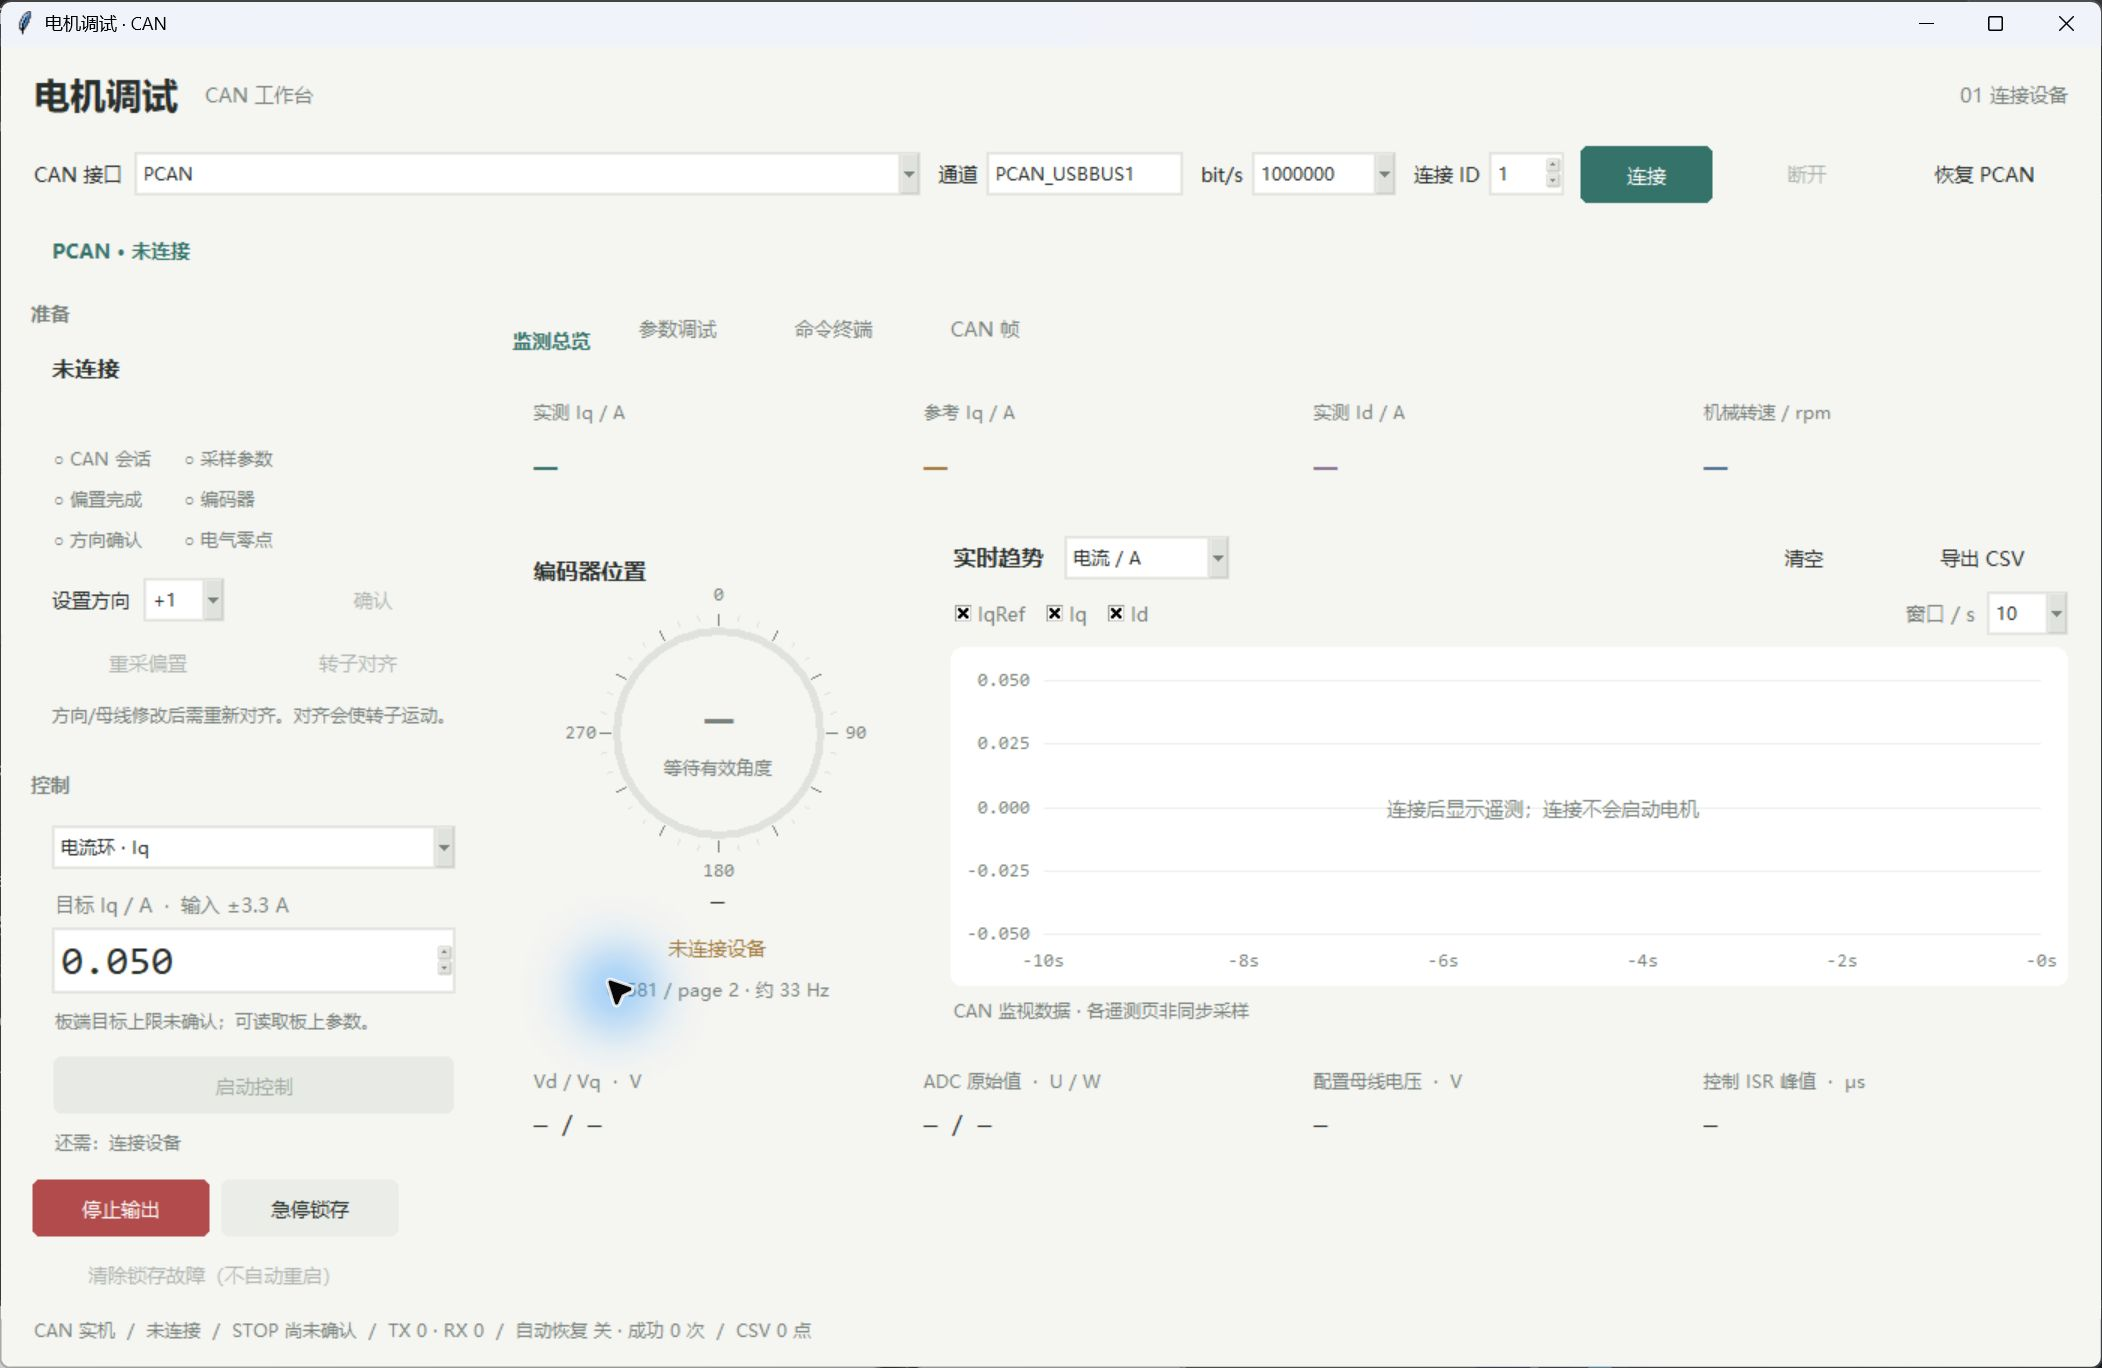
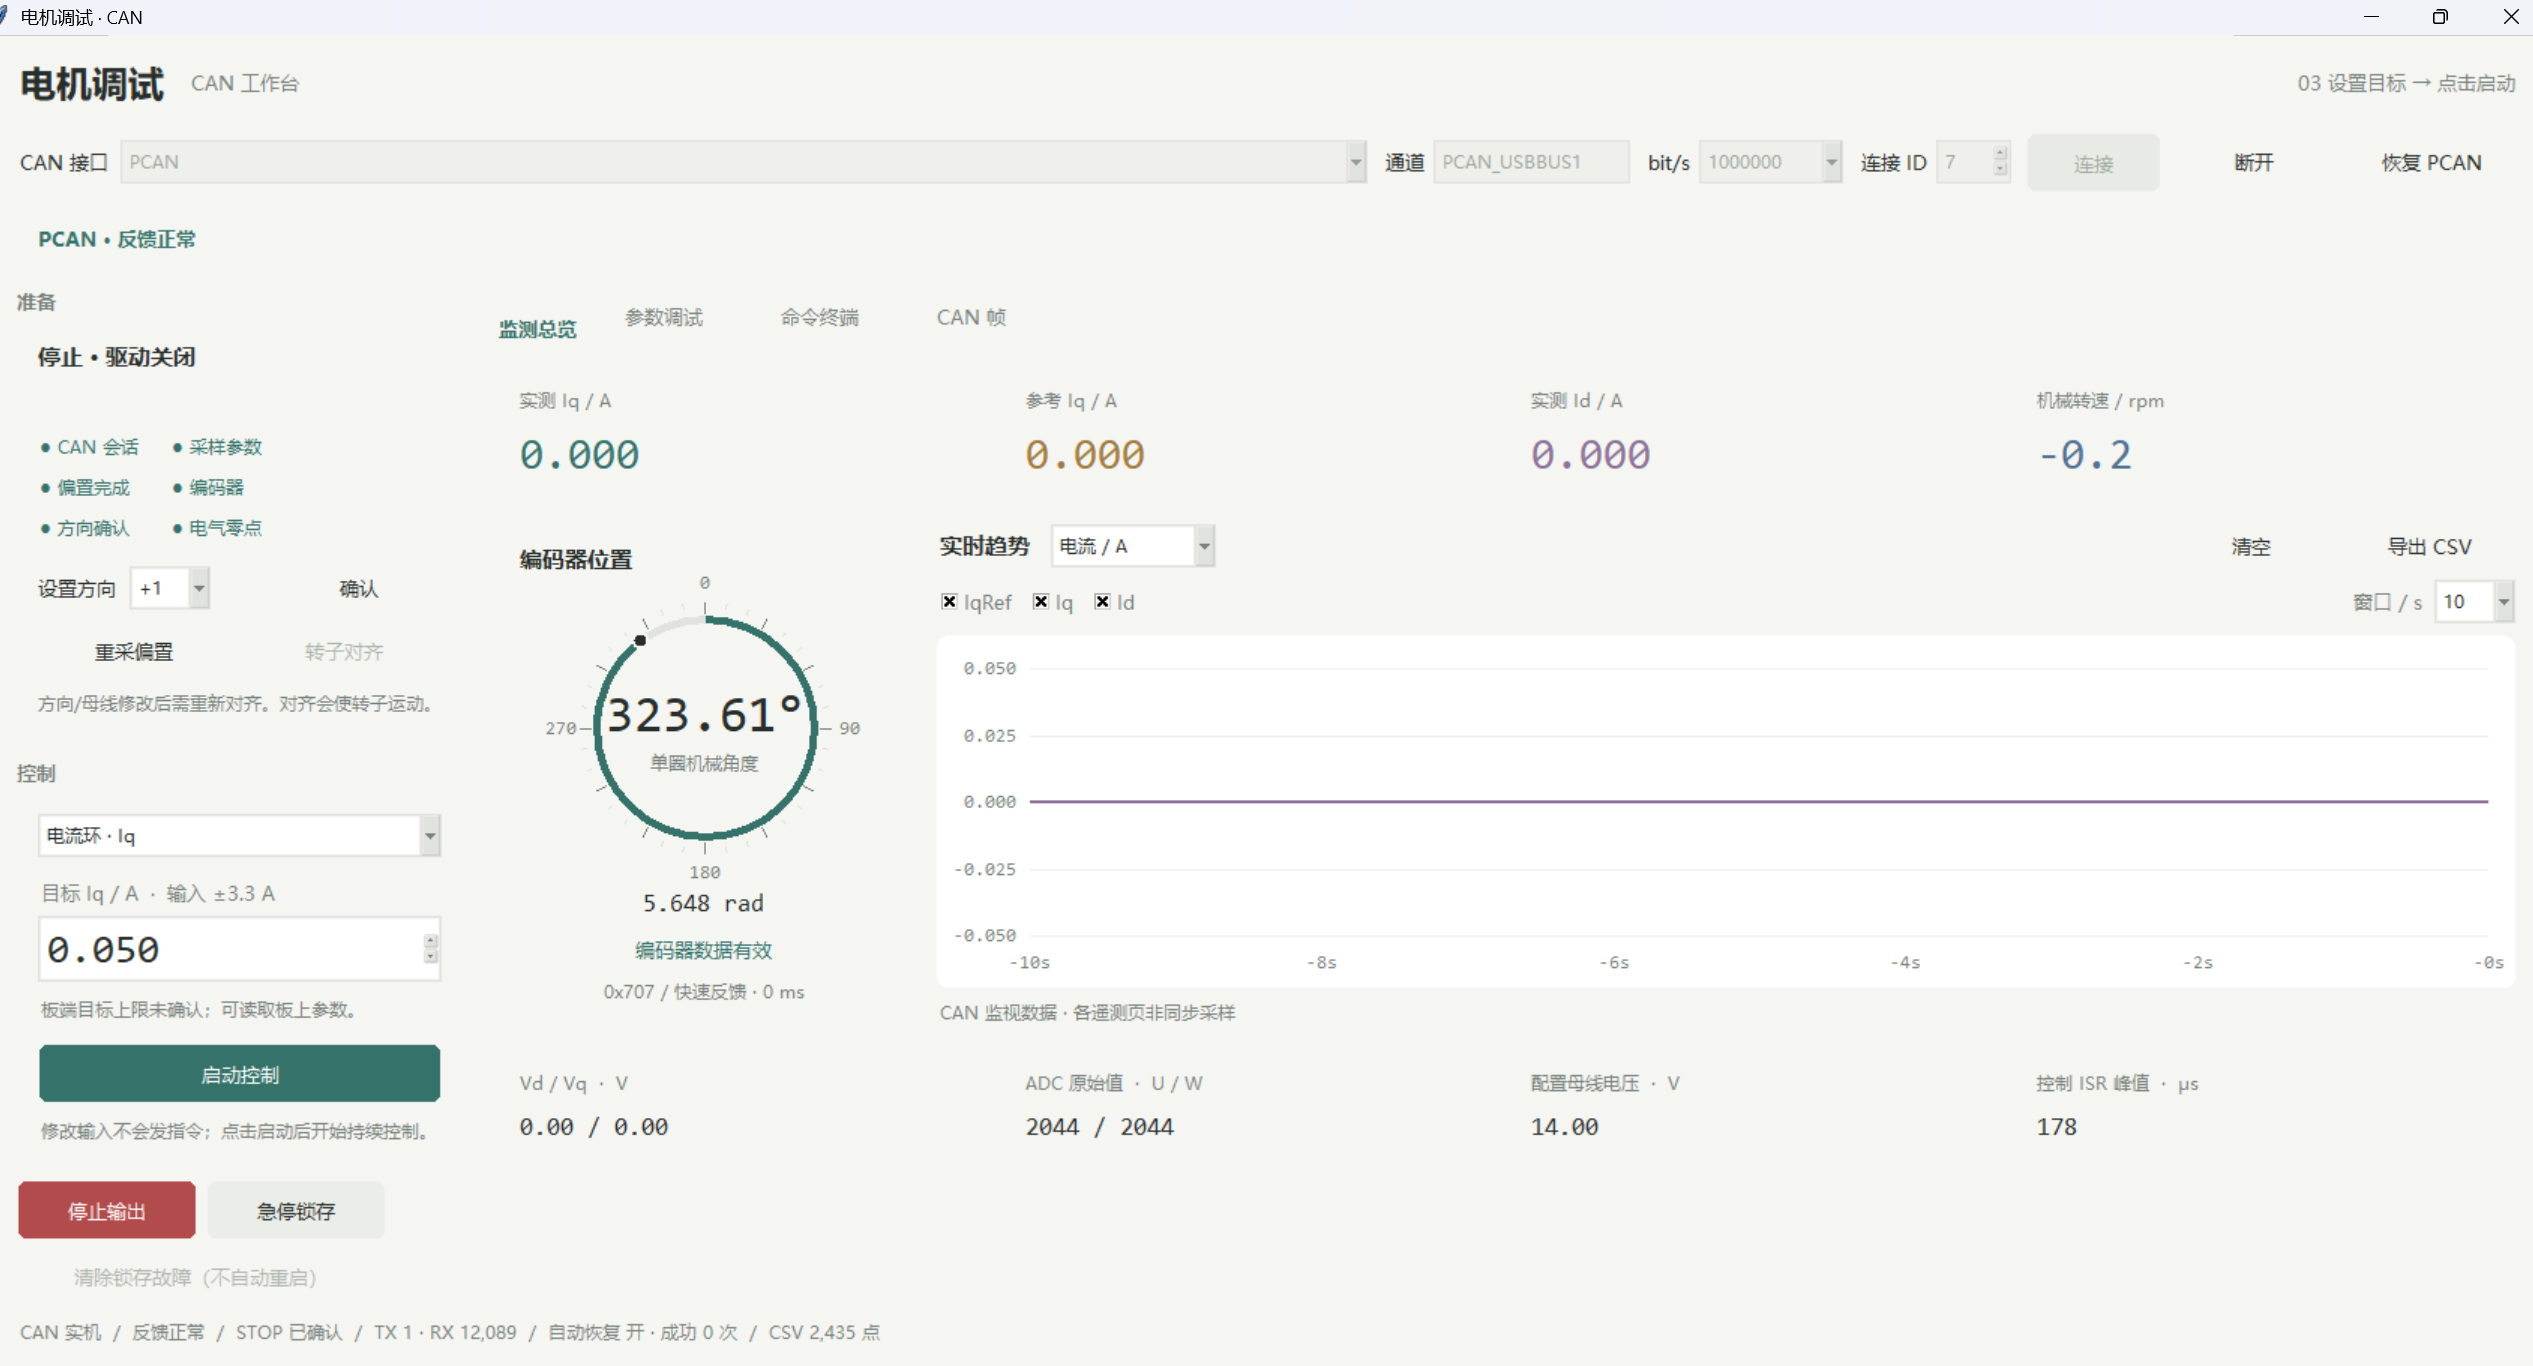
Use supplied connected node 7 desktop screenshot

diff --git a/README.md b/README.md
@@ -53,7 +53,7 @@
 
 ## 中文上位机界面
 
-最新版 Windows 程序的真实窗口截图，展示连接设置、控制区、机械角度表盘、趋势曲线与参数编辑器。截图时保持未连接，参数编辑值不代表实板读回结果。
+Windows 上位机的真实窗口截图，展示连接设置、控制区、机械角度表盘、趋势曲线与参数编辑器。总览图已连接 PCAN / 节点 7，反馈正常，截图时处于 STOP、驱动关闭；下方参数页为未连接时的编辑器展示，编辑值不代表实板读回结果。
 
 ![CAN 上位机监测总览](docs/images/can-desktop-overview.png)
 

diff --git a/docs/CAN_WORKBENCH.md b/docs/CAN_WORKBENCH.md
@@ -2,7 +2,7 @@
 
 ## 界面预览
 
-以下为 Windows 上位机实际窗口，截图时未连接硬件；参数编辑器中的数值不是实板读回。
+以下为 Windows 上位机实际窗口。监测总览已连接 PCAN / 节点 7，反馈正常，截图时为 STOP、驱动关闭；参数页截图未连接硬件，编辑器数值不是实板读回。
 
 ![监测总览](images/can-desktop-overview.png)
 
